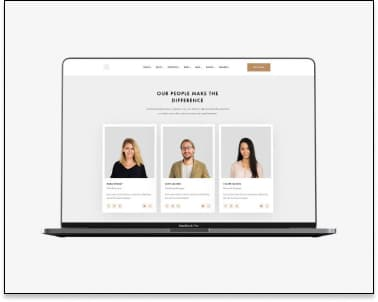
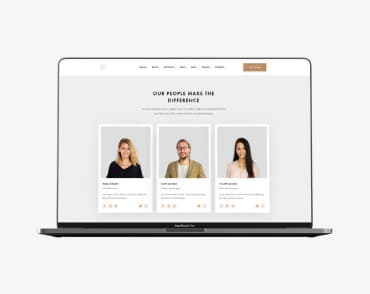
исправление

diff --git a/css/style.css b/css/style.css
@@ -82,14 +82,15 @@ li {
   border-radius: 4px;
   padding: 10px 32px;
   color: var(--btn-tittle);
-  background: var(--btn-background);
+  box-shadow: 0px 4px 4px rgba(0, 0, 0, 0.15);
+  background: #2196f3;
   cursor: pointer;
+  border: 1px;
 }
 .btn:hover,
 .btn:focus {
   box-shadow: 0px 4px 4px rgba(0, 0, 0, 0.15);
   border-radius: 4px;
-  /*color: var(--btn-tittle);*/
   background: var(--btn-background);
 }
 /*Конец Секции 1 студии*/
@@ -224,6 +225,9 @@ li {
 .box {
   padding: 30px 0;
 }
+.list-imgs {
+  background: #f5f4fa;
+}
 .social-links-list {
   display: flex;
   width: 200px;
@@ -338,17 +342,21 @@ li {
   border-style: none;
   font-family: var(--main-font-family);
 }
+.filter-btn {
+  margin-left: 8px;
+}
 .modal-btn {
   font-weight: 500;
   font-size: 16px;
   line-height: 1.6;
   letter-spacing: 0.03em;
-  color: var(--btn-main-color-text);
-  text-decoration: none;
-  font-family: inherit;
-  border-style: none;
-  text-shadow: none;
+  /*color: var(--btn-main-color-text);*/
+  text-align: center;
+  color: #212121;
+  background: #f5f4fa;
   border-radius: 4px;
+  padding: 6px 22px;
+  border: 1px solid #ffffff;
 }
 .button .current {
   color: var(--btn-tittle);
@@ -358,18 +366,10 @@ li {
 .modal-btn:focus {
   background-color: var(--navigation-color);
   color: var(--btn-tittle);
-  font-family: inherit;
-}
-.filter-btn + .filter-btn {
-  margin-left: 8px;
-}
-.modal-btn {
+  cursor: pointer;
+  box-shadow: 0px 3px 1px rgba(0, 0, 0, 0.1), 0px 1px 2px rgba(0, 0, 0, 0.08),
+    0px 2px 2px rgba(0, 0, 0, 0.12);
   border-radius: 4px;
-  padding: 6px 22px;
-  border: transparent;
-  transition-property: background-color;
-  transition-duration: 1s;
-  transition-delay: 0s, 1s;
 }
 .images {
   display: flex;
@@ -477,9 +477,6 @@ li {
 }
 .contacts .item-contact {
   display: block;
-  padding-top: 32px;
-  padding-bottom: 32px;
-
   margin-right: 50px;
 }
 .item-contact a {
@@ -496,6 +493,7 @@ li {
 }
 .item-contact .contact {
   color: var(--secondary-text-color);
+  fill: var(--secondary-text-color);
 }
 .contact:hover,
 .contact:focus {
